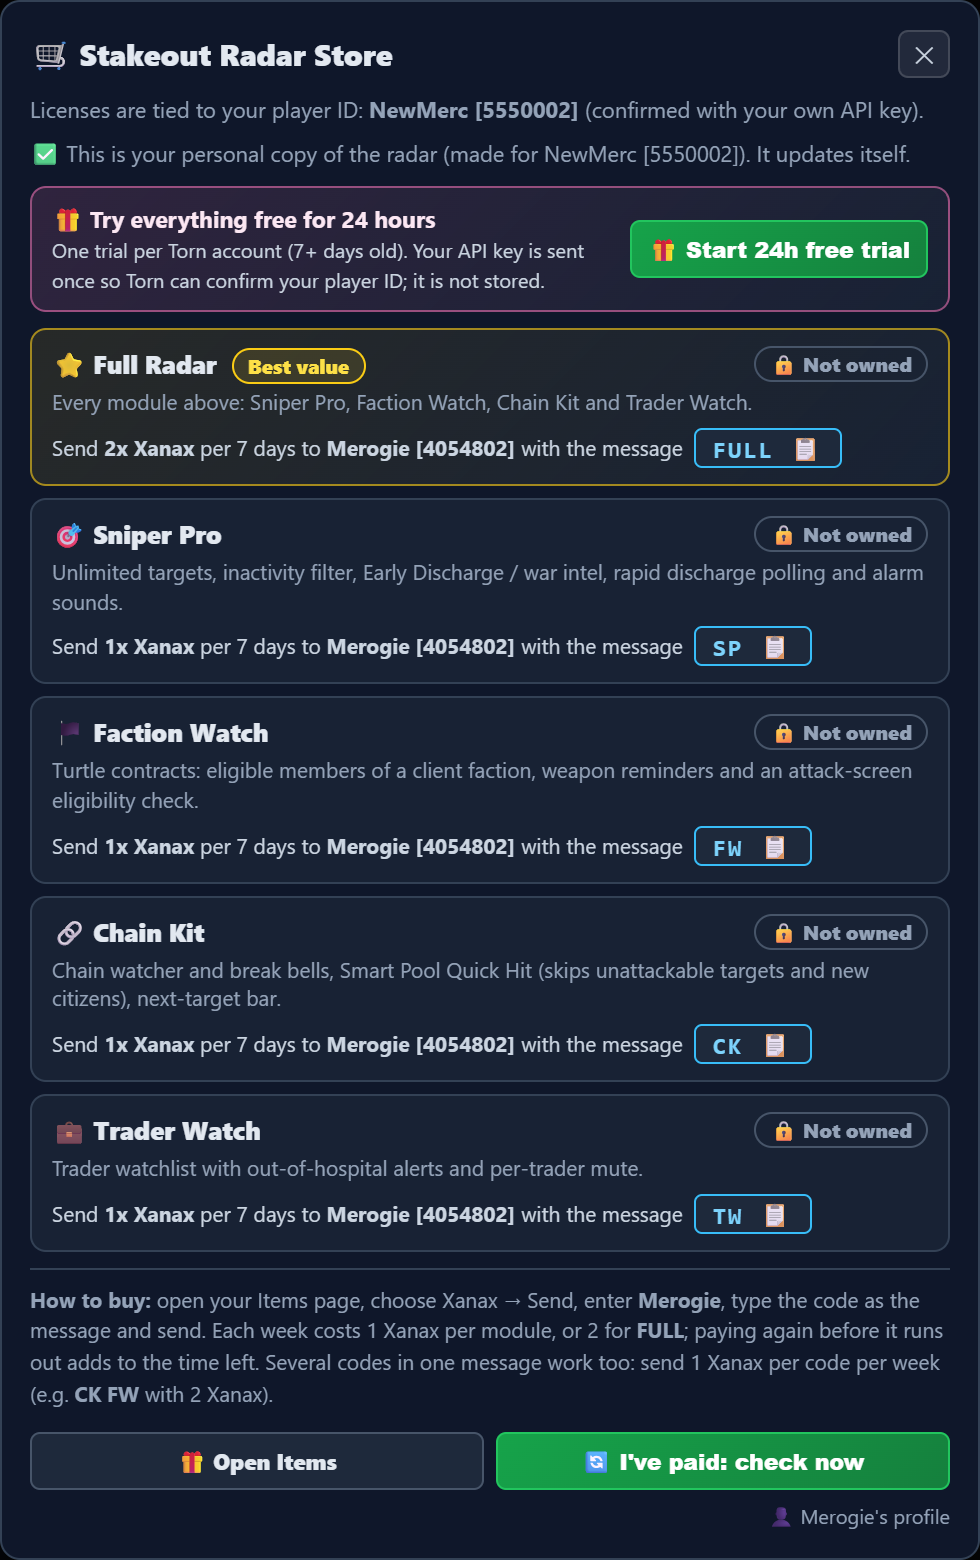
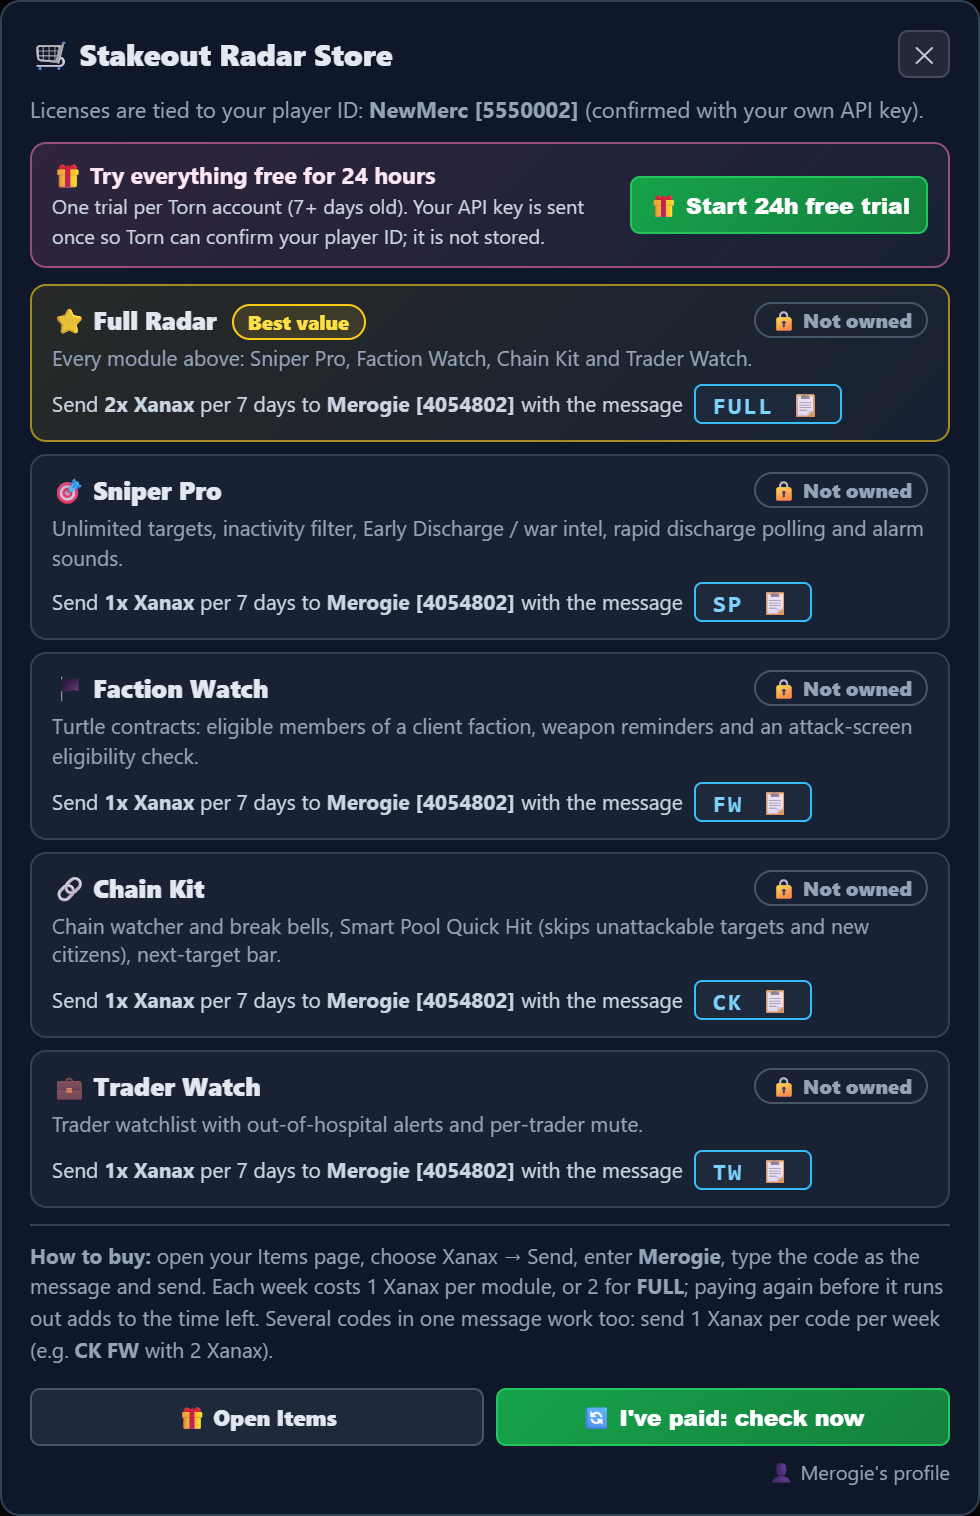
docs: info page by use case (contracts, chains/Halloween, turtling, traders), accuracy fixes, Store screenshot as a new player sees it

Changed region(s): [[0.0306, 0.031, 0.9796, 0.9921], [0.949, 0.279, 0.9796, 0.31]]

diff --git a/README.md b/README.md
@@ -8,32 +8,68 @@ The install link gives you the free radar. Paid modules and the free trial run i
 
 ![Radar with targets](images/radar-targets.png)
 
-## What it does
+## Built for how you merc
 
-**Free for everyone**
-- Watch 1 target: hospital timer and an alert when they're out.
-- Energy remaining on the attack screen ("125/150 E · 5 hits").
+### 🎯 Ad-hoc merc contracts: the target watcher (Sniper Pro)
+
+Add the contract target and get on with your day. The radar rings only when the target meets **every condition of the contract**:
+
+- **Okay**: out of hospital and not in jail, abroad or flying.
+- **Active the way the contract asks**: online now, or last action within 2, 5, 10, 15, 30 or 60 minutes (set per target), or any activity.
+- **No Early Discharge**: if they're in a ranked war or on a territory wall (attacking or defending), the contract pauses itself, so you don't hit someone who can be pulled out of hospital. Click to force it if you choose to.
+
+Also for contracts:
+- **Stricken contracts:** right-click a target to tag it 🎯 Stricken. It's alerted like any other target, and every alert adds "🗡 Use your Stricken weapon!". Its card and attack button turn purple as a reminder. Right-click again to untag.
+- Hospital countdown, with polling every second in the last minute, so you're on the attack page the moment they're out.
+- Flight landings: an alert when they land and are hittable.
+- Illegal-hit evidence (turn it on in Options): if someone else hospitalizes your target, you get an evidence card with a screenshot.
+- More than 4 targets fold into one-line rows. Each row shows online status, time since last action, name, then an HP bar when they're out or a red ✚ with their hospital time, 🧱 when they're on a wall, ✈ when flying, and **Hit**, which turns green when they can be hit. Click a row for the full card.
+
+<img src="images/radar-compact.png" width="380" alt="One-line rows for a long target list">
+
+### 🔗 Saving chains and farming Halloween treats: Chain Kit
+
+When the chain is about to drop, or you just want to burn your energy, you need a hittable target **now**, not a search through the people page.
+
+- **Quick Hit** opens an attack on a target from your **Smart Pool**: level-1 players checked to be out of hospital, not in jail, not abroad, not federal and not under new-citizen protection. Each merc gets a different random pool, so you don't collide on the same targets.
+- On the attack screen, the **Attack Next Target** bar takes you to the next pool target in one click, and shows your energy left ("125/150 E · 5 hits").
+- **Chain watcher:** chain timer bells before the chain breaks.
+- Ideal for Halloween: dump your energy into fast, easy hits to farm treats.
+
+![Attack screen bar](images/attack-bar.png)
+
+### 🏴 Turtling a faction, before or during a war: Faction Watch
+
+Add the client faction and see at a glance which members you're allowed to hit.
+
+- Members are sorted into **eligible**, **soon**, **in hospital** and **active**, using the contract's rule (offline, idle or both, for at least X minutes).
+- Each merc sees the eligible members in a different order, so you spread out instead of all hitting the same member.
+- The contract shows a **Stricken** or **Standard** weapon reminder.
+- On the attack screen a banner confirms whether this member is eligible, before you swing.
+- A chime when someone becomes eligible.
+
+<img src="images/faction-watch.png" width="380" alt="Faction Watch contract">
+
+### 💼 Hospitalization services: Trader Watch
+
+Traders who regularly ask to be hospitalized for safe-keeping can be watched like targets. You're alerted the moment one is **out of hospital or has landed, and online or idle**, so you can offer your service or hit them straight away, before someone else mugs them. Mute any trader on their own.
+
+### Free for everyone
+
+- Watch 1 target: hospital timer, and a desktop notification when they're out (alarm sounds come with Sniper Pro).
+- Energy left on the attack screen.
 - A small counter in the header shows your API calls per minute.
 - Works with several Torn tabs open: only one tab polls the API and only one tab rings, so your API usage doesn't multiply.
 
-**Paid modules** (each one on its own, or all of them together)
+### Modules at a glance
 
-| Module | Code | What you get |
+| Module | Code | For |
 |---|---|---|
-| 🎯 **Sniper Pro** | `SP` | Unlimited targets, attack-eligible alarm (out of hospital **and** active within your limit), inactivity filter, **Early Discharge and wall detection** (ranked wars; territory walls in either role: attacking or defending), contract auto-pause, illegal-hit evidence cards, faster polling near discharge. Long lists fold into one-line rows: last action, HP bar, hospital countdown and a Hit button. |
-| 🏴 **Faction Watch** | `FW` | Turtle contracts: watch a client faction and see which members are eligible (offline / idle for at least X minutes), Stricken or Standard weapon reminder, and an eligibility check on the attack screen. |
-| 🔗 **Chain Kit** | `CK` | Chain timer bells, and a Smart Pool of verified level-1 targets that skips anyone in hospital, jail, abroad, federal or under new-citizen protection. Each merc gets a different random pool, so you don't collide. Includes a one-key "Attack Next Target" bar on the attack screen. |
-| 💼 **Trader Watch** | `TW` | Trader watchlist with out-of-hospital alerts for safe-keeping hospitalization services. |
-| ⭐ **Full Radar** | `FULL` | All four modules. |
-
-**One-line rows** (more than 4 targets; you can change the number in Options). Each row shows, left to right: online status, time since last action, name, then an HP bar when they're out or a red ✚ with their hospital time, a 🧱 when they're on a wall, ✈ when travelling, and the **Hit** button (green when they can be hit). Click a row to open its full card.
-
-<p>
-<img src="images/radar-compact.png" width="380" alt="One-line rows for a long target list">
-<img src="images/faction-watch.png" width="380" alt="Faction Watch contract">
-</p>
-
-![Attack screen bar](images/attack-bar.png)
+| 🎯 **Sniper Pro** | `SP` | Ad-hoc contracts: unlimited targets, contract-aware alarm, Early Discharge and wall detection, Stricken tags, illegal-hit evidence |
+| 🔗 **Chain Kit** | `CK` | Chains and energy dumps: Smart Pool, Quick Hit, Attack Next Target bar, chain bells |
+| 🏴 **Faction Watch** | `FW` | Turtling: eligible members, weapon reminder, attack-screen check |
+| 💼 **Trader Watch** | `TW` | Traders who need hospitalizing: out-and-online alerts |
+| ⭐ **Full Radar** | `FULL` | All four modules |
 
 <img src="images/options.png" width="380" alt="Options grouped by module">
 
@@ -68,7 +104,7 @@ The paid modules are not in the public download. Once you have paid or started t
 1. Install [Tampermonkey](https://www.tampermonkey.net/) or [Violentmonkey](https://violentmonkey.github.io/), then click **[Install](https://raw.githubusercontent.com/MerogieMagic/stakeout-radar-releases/main/torn_mercenary_stakeout.user.js)**.
 2. Open Torn. The radar asks for an API key. Click **✨ Generate key**: Torn opens its key page with only the access the radar needs already ticked (a Custom key). Create it, then paste it in.
 3. To try every module, open **🛒 Store** and click **🎁 Start 24h free trial**. To buy, see [Pricing](#pricing).
-4. Then click **⬇ Install my copy** in the Store, choose Install / Reinstall in the tab that opens, and refresh Torn.
+4. Then, in the Store, click **⭐ Get my personal copy** (after a trial it's already there) and **⬇ Install my copy**, choose Install / Reinstall in the tab that opens, and refresh Torn.
 
 Updates install automatically. When a new version is out, the radar shows an **Update now** banner.
 
